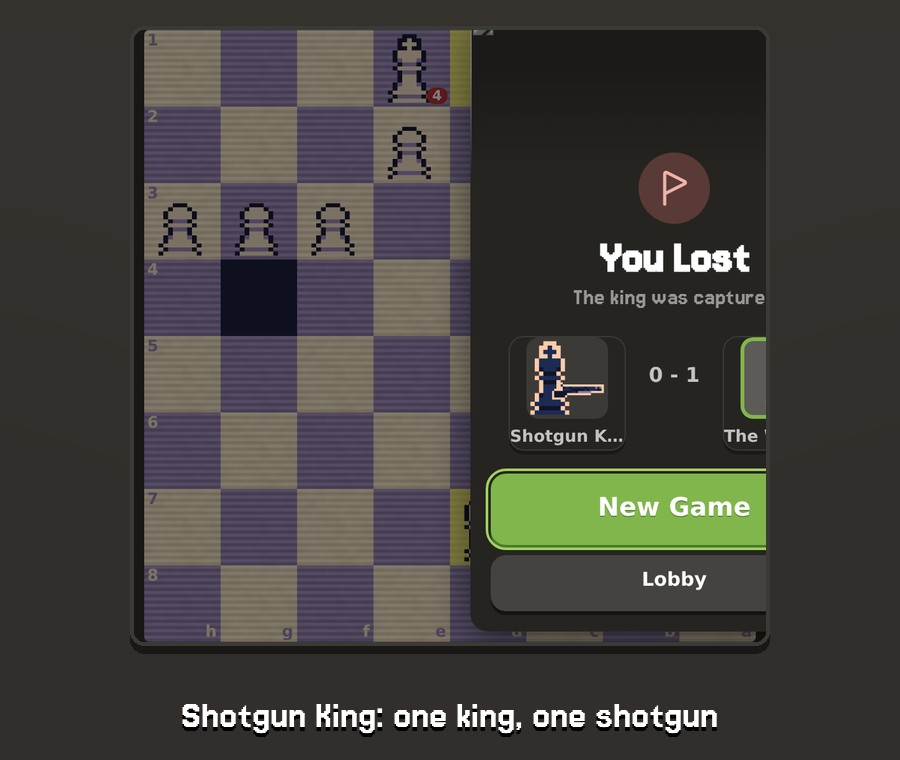
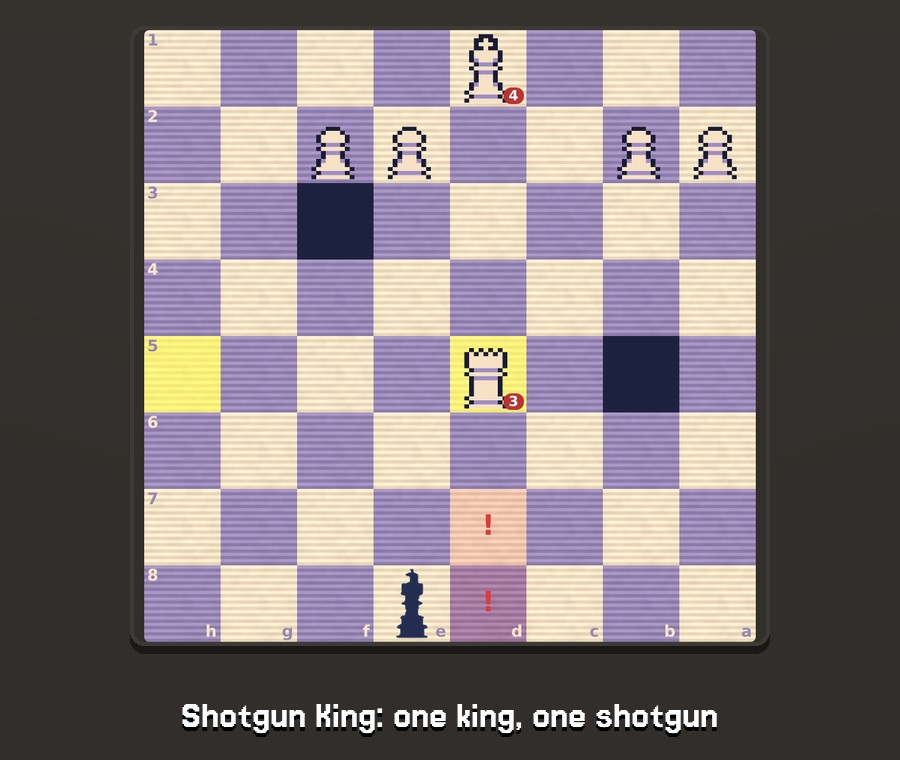
README: retake Shotgun King screenshot mid-game (was covered by You Lost); readme_store capture retries when the game ended, SHOTS_ONLY env

diff --git a/tools/readme_store.py b/tools/readme_store.py
@@ -132,13 +132,18 @@ def capture():
     with sync_playwright() as p:
         b = p.chromium.launch(); pg = b.new_context(viewport={'width': 1280, 'height': 720}, device_scale_factor=2).new_page()
         pg.goto('http://127.0.0.1:8818/index.html'); pg.wait_for_timeout(1200); pg.mouse.click(5, 5)
+        only = os.environ.get('SHOTS_ONLY', '').split(',') if os.environ.get('SHOTS_ONLY') else None
         for slug, mid, _ in SHOTS:
+          if only and slug not in only: continue
+          for attempt in range(5):  # never shoot a finished game (the game-over card would cover the board)
             pg.evaluate(f"CM.app.openVideo('{mid}')"); pg.wait_for_timeout(6000)
-            for k in range(6):
+            for k in range(6 - attempt):
                 pg.evaluate("""(()=>{try{var G=CM.gameUI.controller; if(!G||!G.V||G.busy||G.over||G.state.turn!==G.human) return;
                   var ms=G.moves.filter(m=>m.f>=0), caps=ms.filter(m=>m.cap), pick=caps.length&&Math.random()<.6?caps:ms;
                   if(pick.length) G.commit(pick[Math.floor(Math.random()*pick.length)],{});}catch(e){}})()""")
                 pg.wait_for_timeout(1400)
+            if not pg.evaluate("(()=>{try{var G=CM.gameUI.controller;return !!(G&&G.over)}catch(e){return false}})()"): break
+          if True:
             r = pg.evaluate("(()=>{var a=document.getElementById('board-area')||document.getElementById('board-wrap');var e=a.getBoundingClientRect();return [e.x,e.y,e.width,e.height]})()")
             pg.screenshot(path=f'{RAW}/{slug}.png', clip={'x': max(0, r[0] - 8), 'y': max(0, r[1] - 8), 'width': r[2] + 16, 'height': r[3] + 16})
         b.close()
